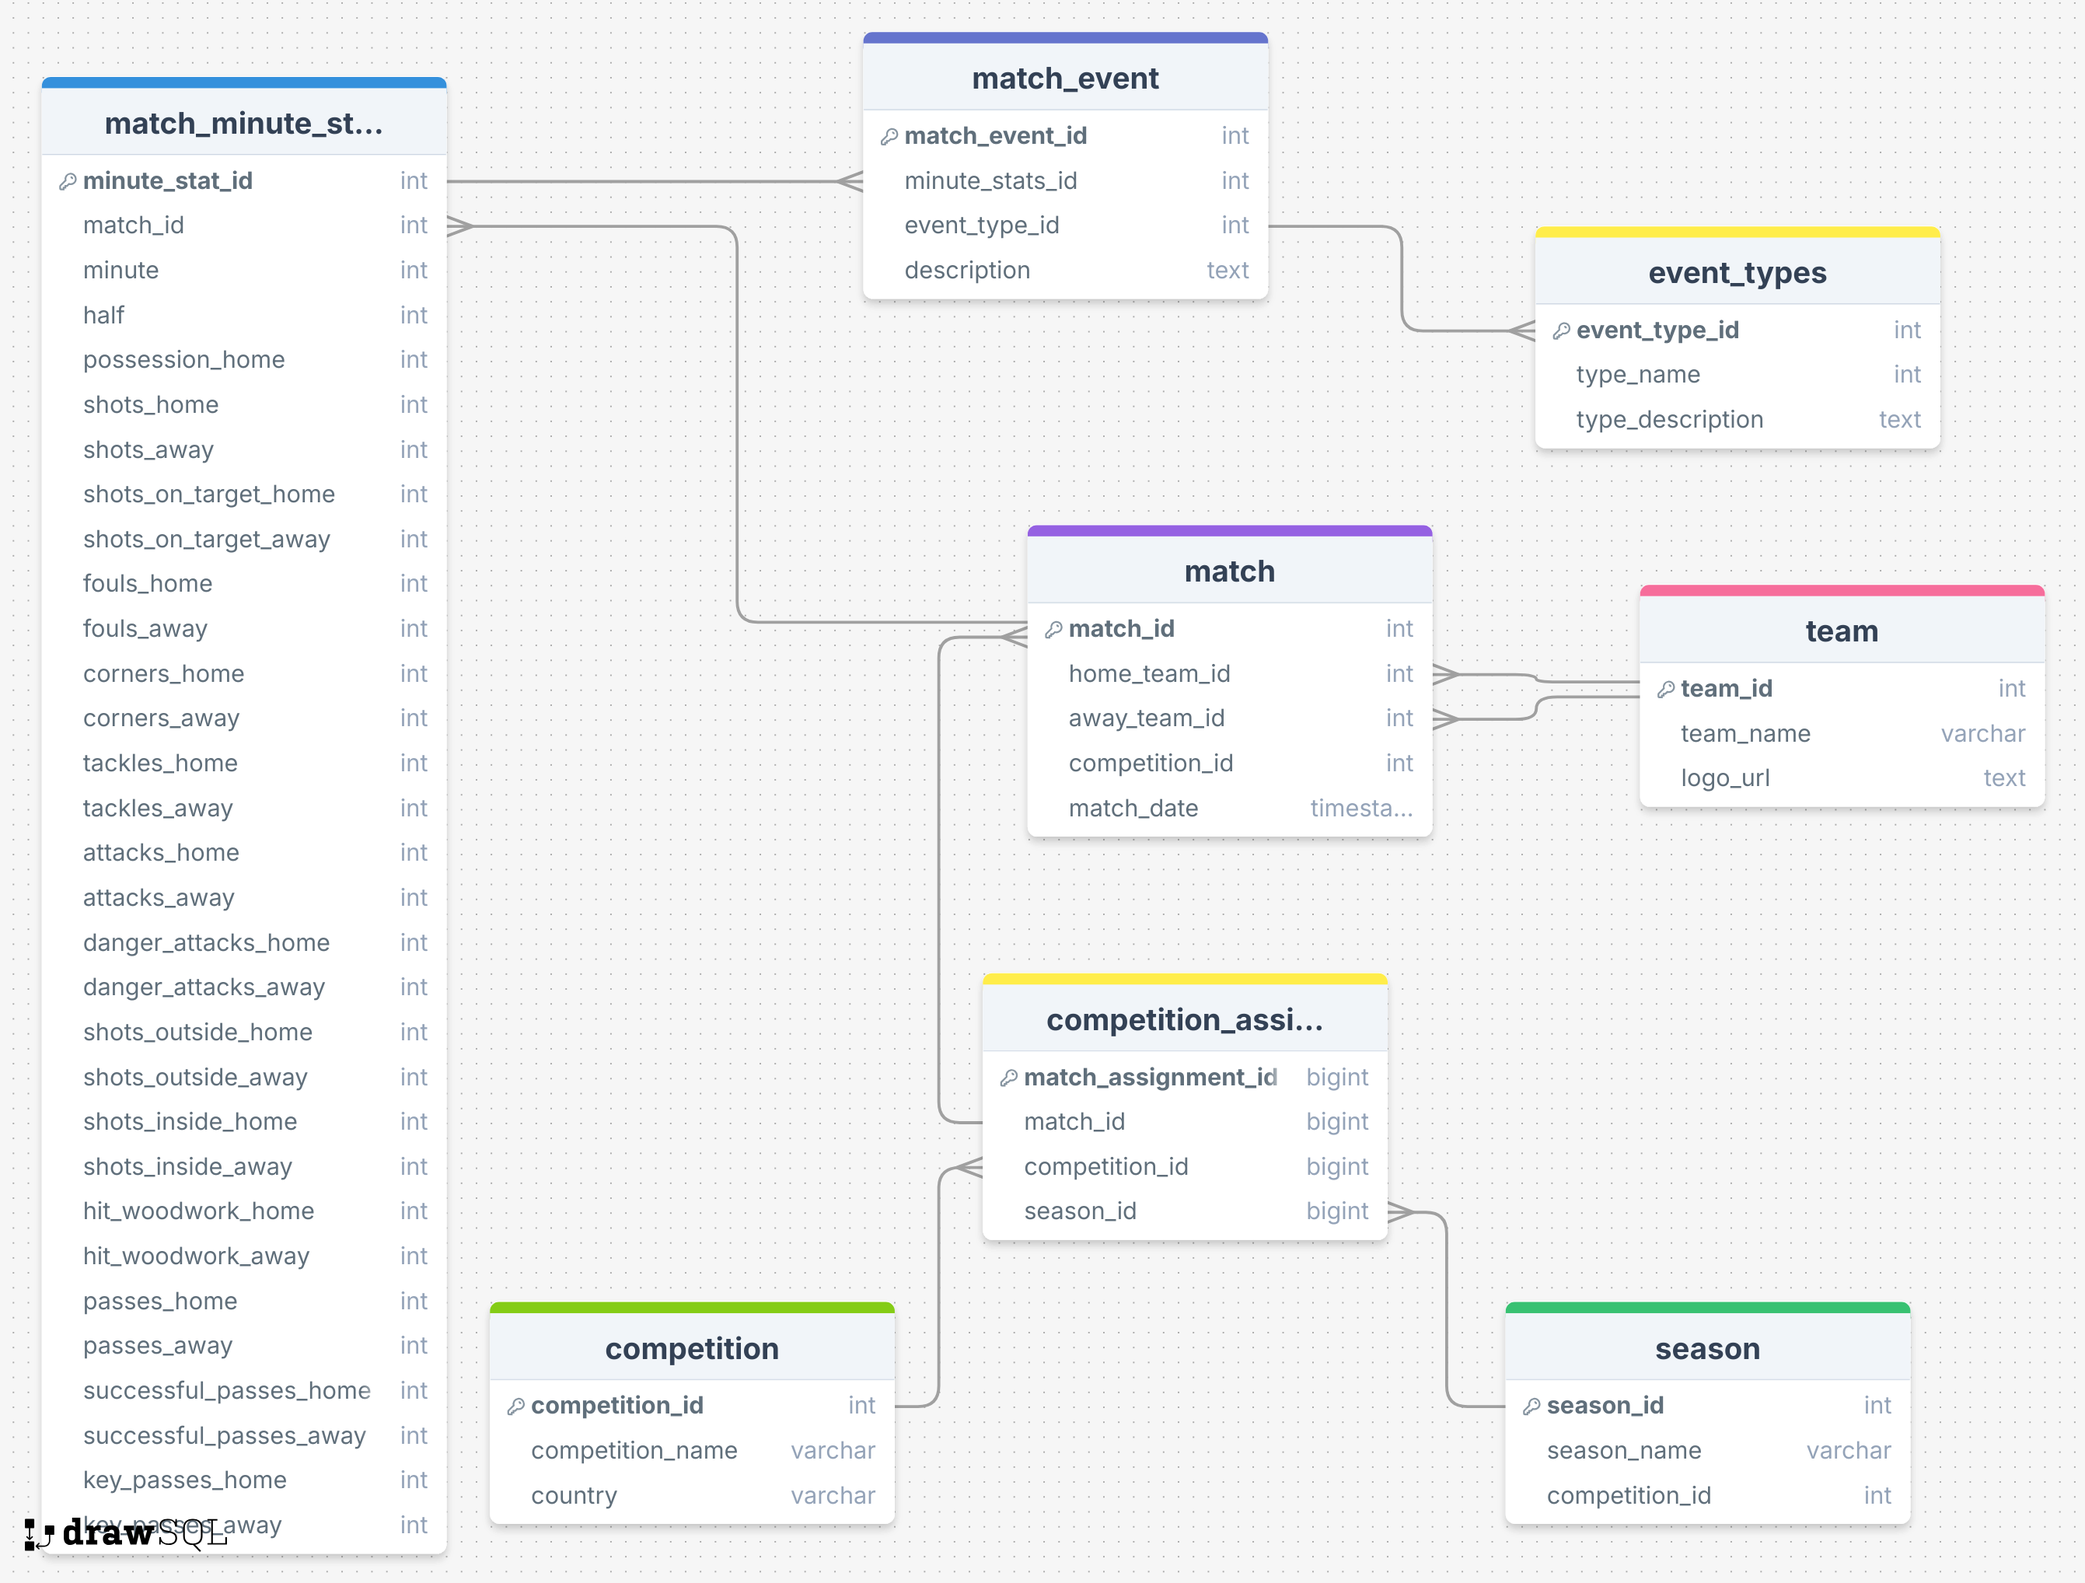
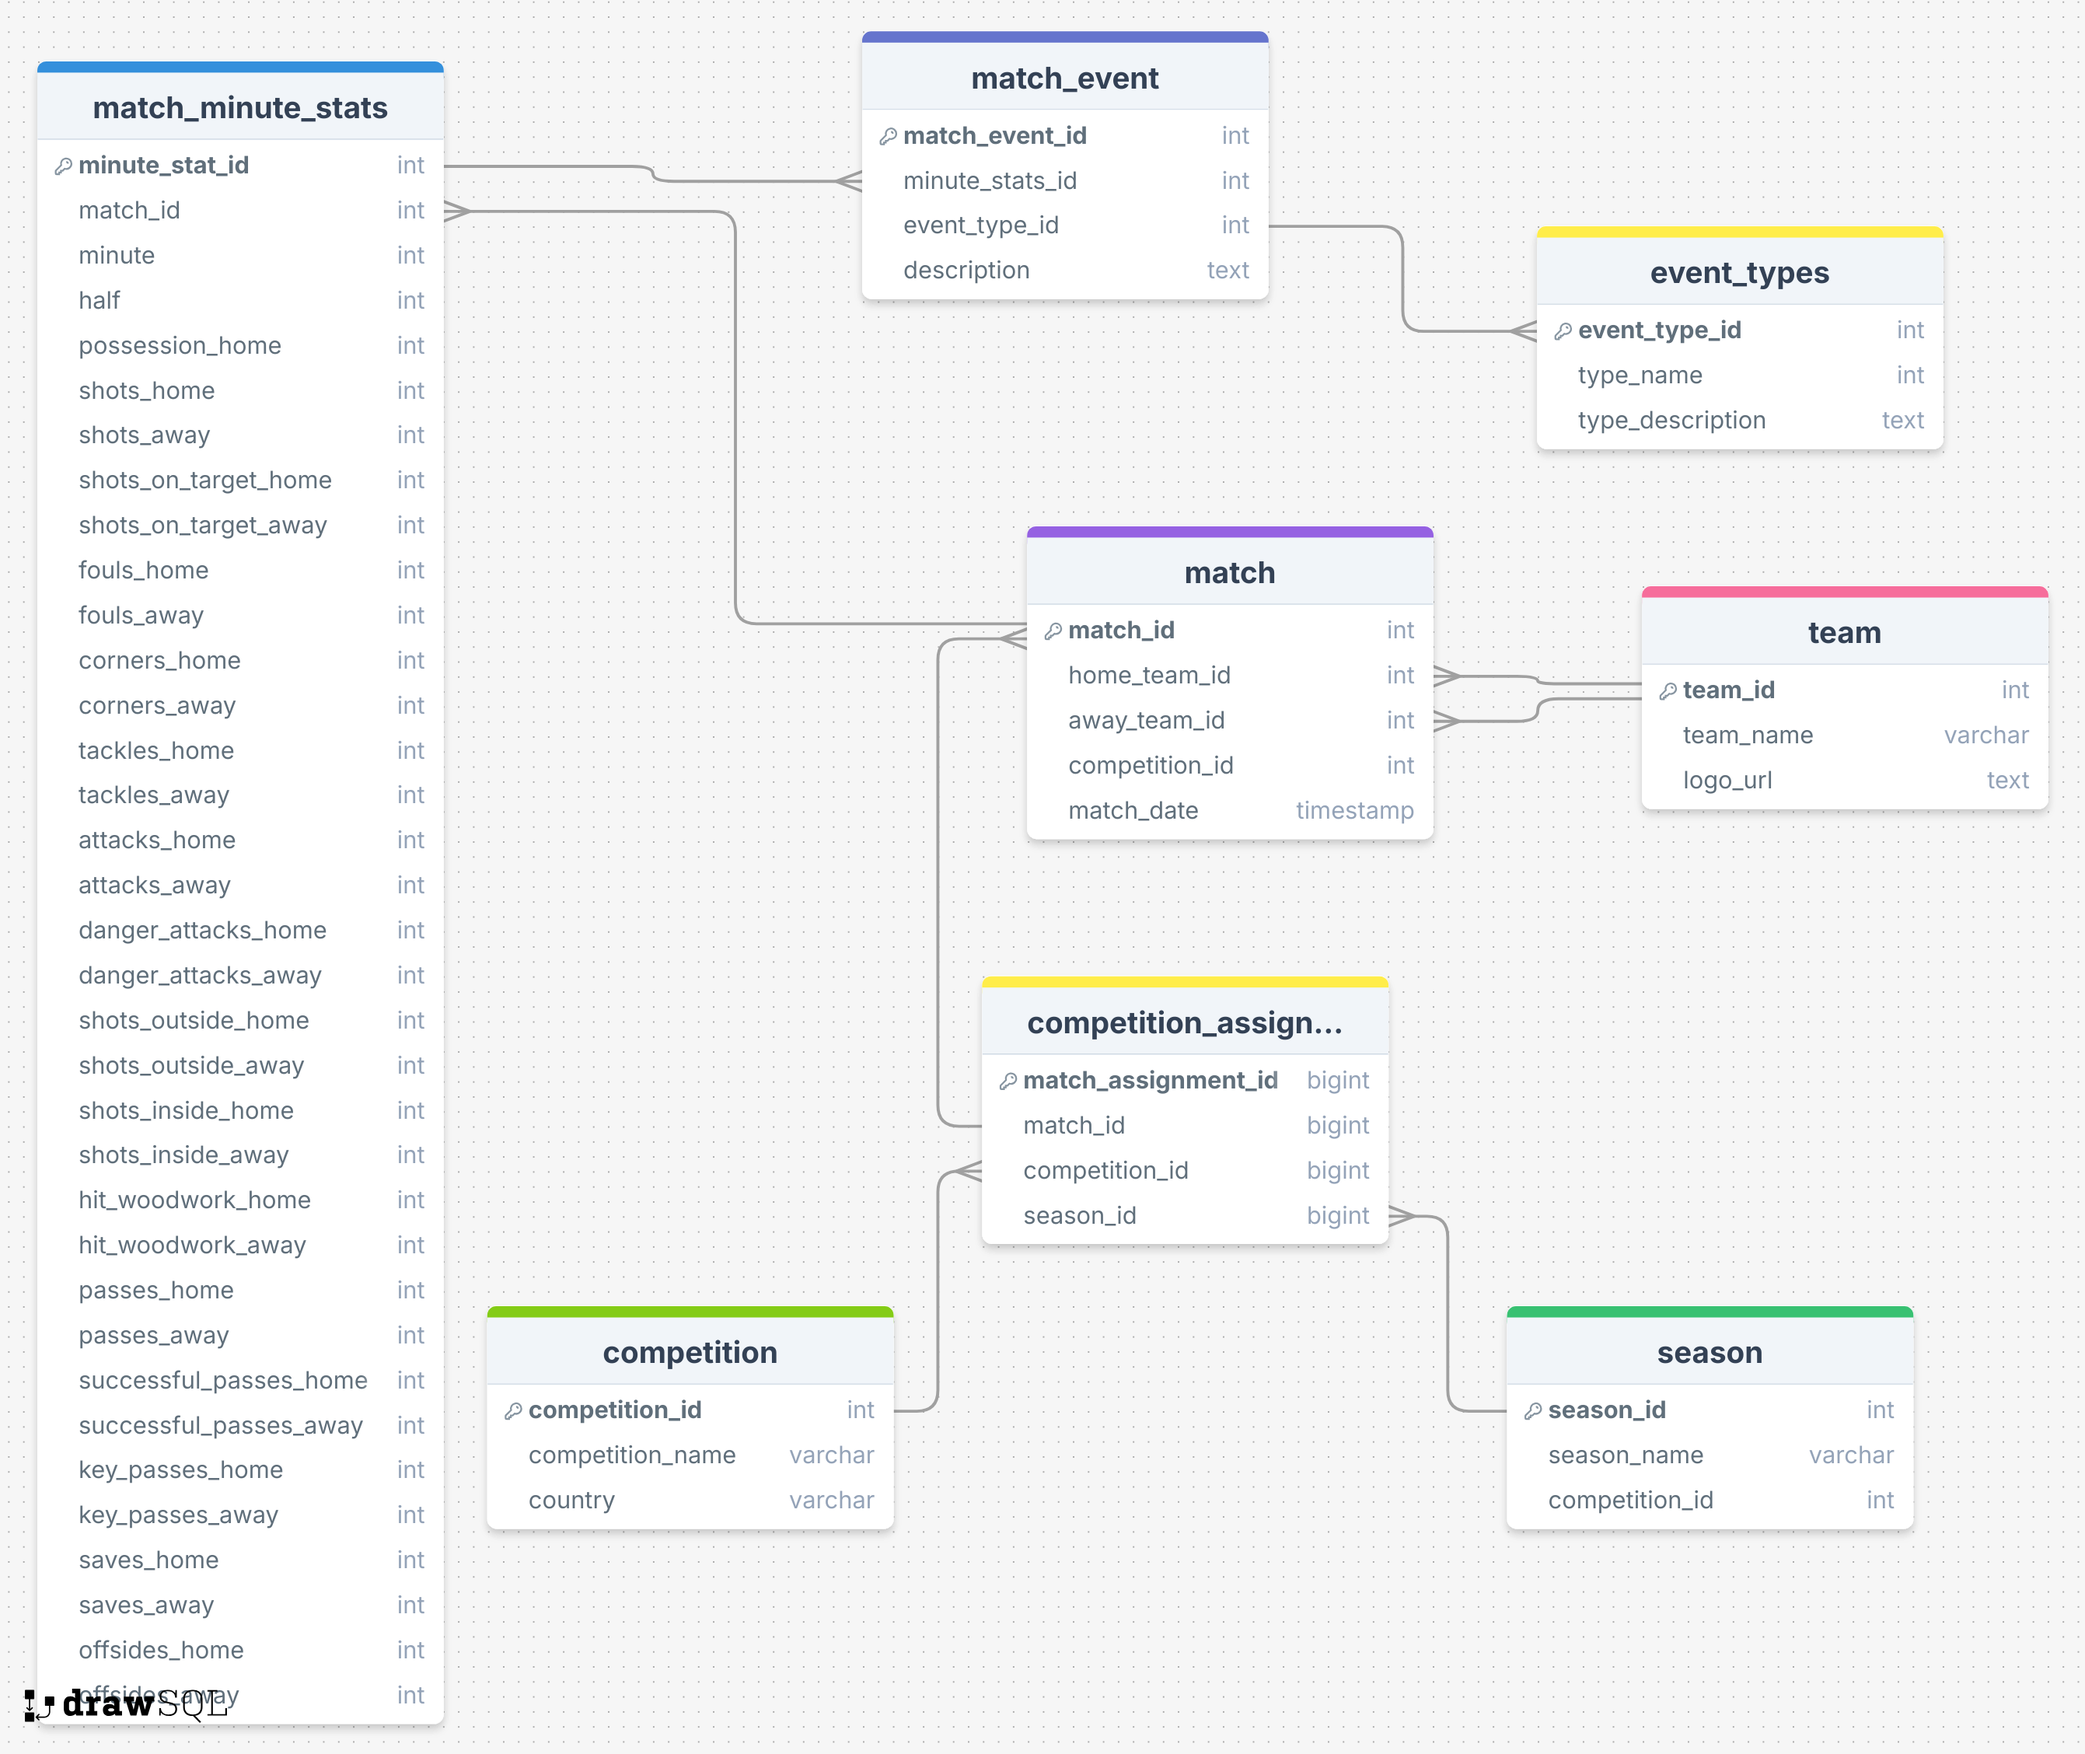
Added save and offside stats to match minute stats

diff --git a/architecture/database/README.md b/architecture/database/README.md
@@ -3,5 +3,5 @@
 
 ## ERD
 
-Link to view: https://drawsql.app/teams/breakout-group-3/diagrams/football-project-erd-2
+Link to view: https://drawsql.app/teams/breakout-group-3/diagrams/football-project-final-erd
 
